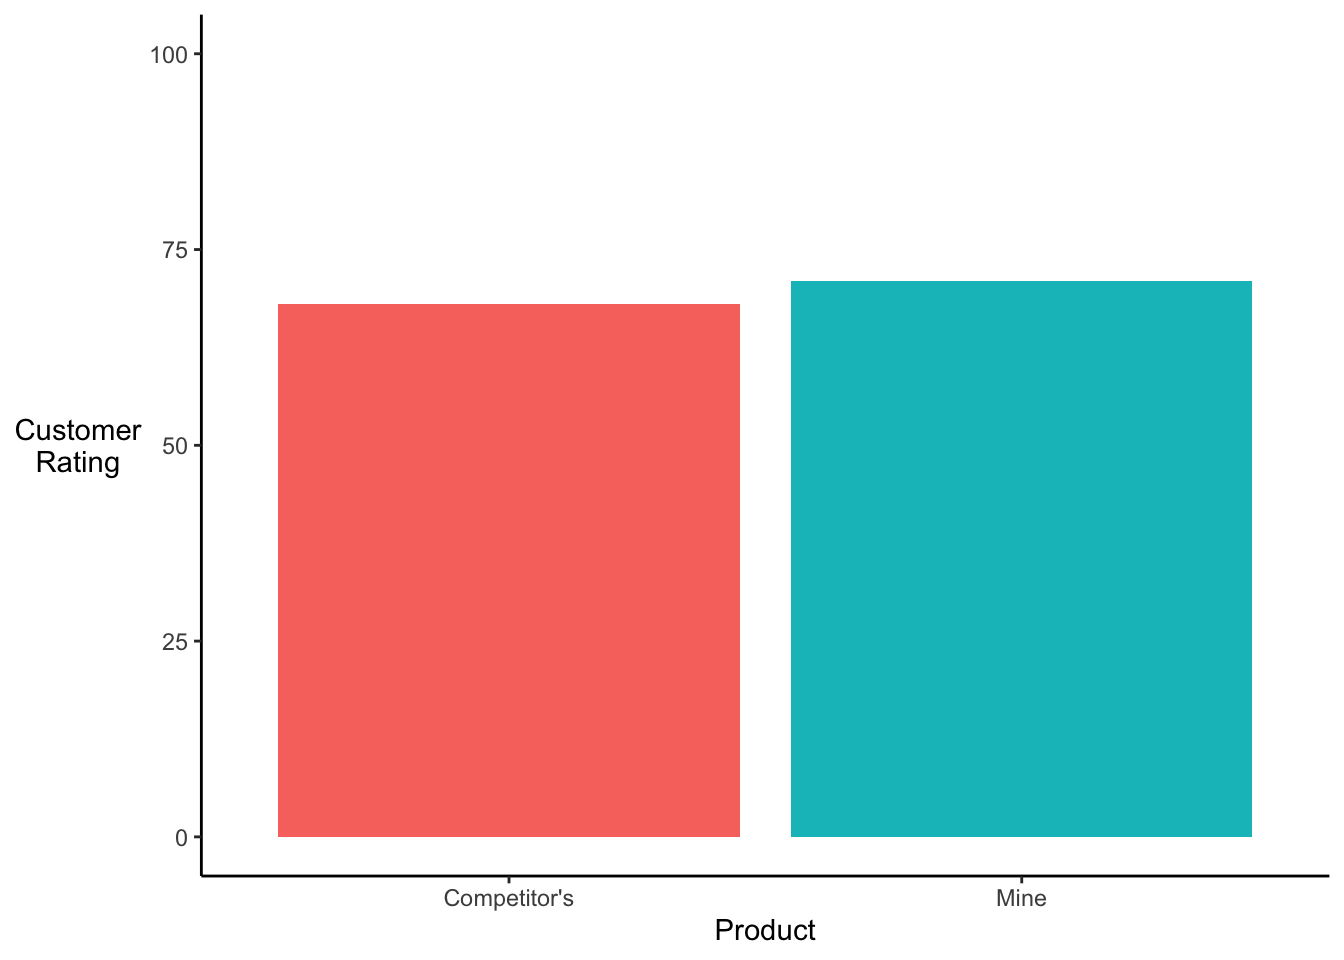
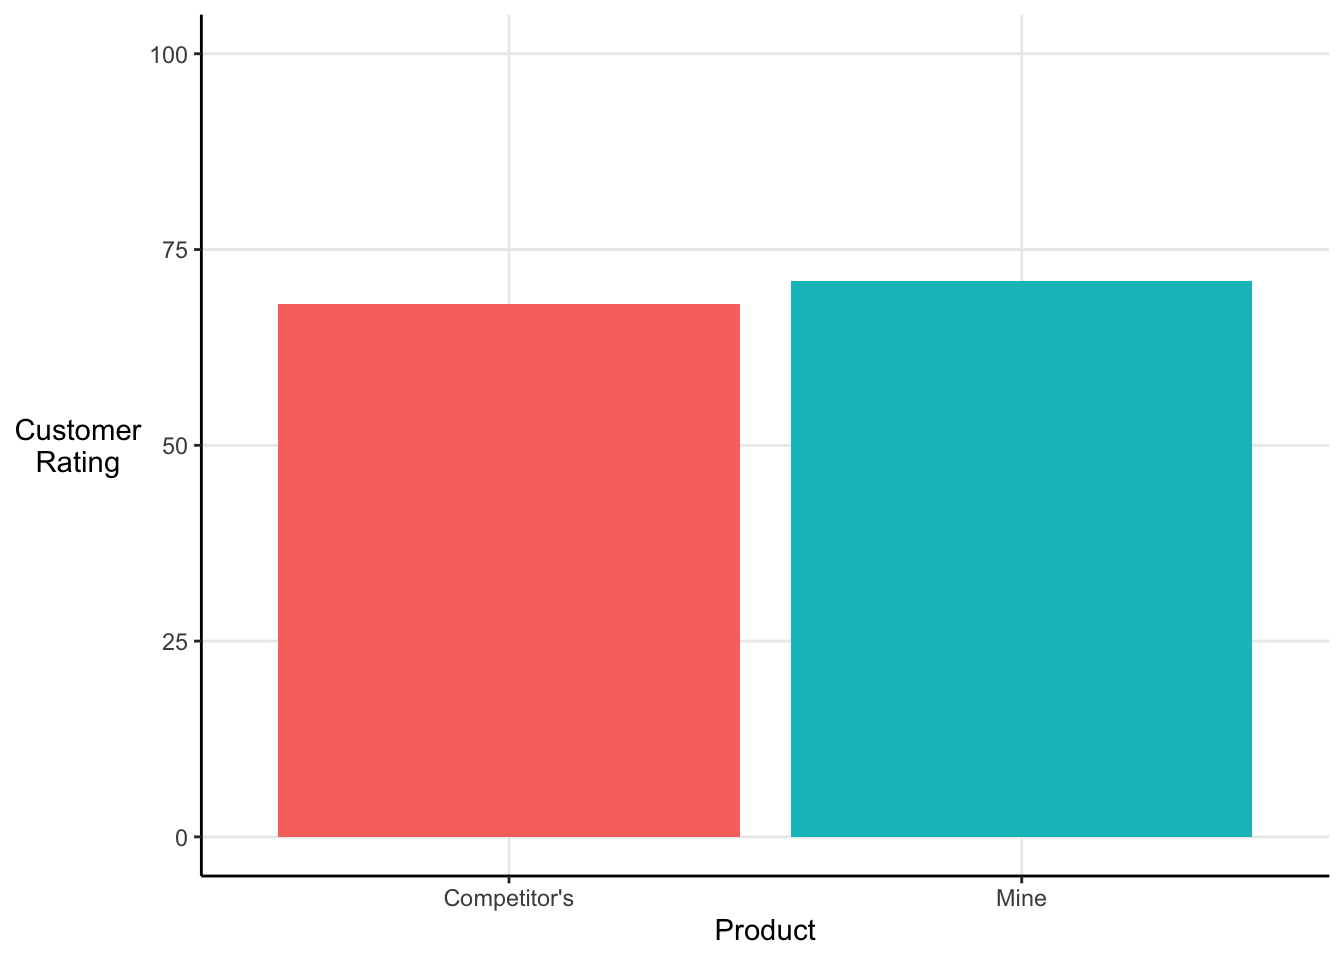
Changed graph template

diff --git a/public/summaries/lies_and_stats_levitin_2016/index.html b/public/summaries/lies_and_stats_levitin_2016/index.html
@@ -189,7 +189,8 @@ ggplot(product_ratings, aes(x = Product, y = mean_rating, fill = Product)) +
   scale_fill_discrete(guide = &quot;none&quot;) +
   scale_y_continuous(&quot;Customer\nRating&quot;, limits = c(0, 100)) +
   theme_classic() +
-  theme(axis.title.y = element_text(angle = 0, vjust = 0.5))</code></pre>
+  theme(axis.title.y = element_text(angle = 0, vjust = 0.5),
+        panel.grid.major = element_line())</code></pre>
 <p><img src="/summaries/lies_and_stats_Levitin_2016_files/figure-html/full%20range%20bar%20chart-1.png" width="672" style="display: block; margin: auto;" /></p>
 </div>
 <div id="discontinuous-axes" class="section level2">
@@ -202,7 +203,8 @@ ggplot(product_ratings, aes(x = Product, y = mean_rating, fill = Product)) +
   geom_line(group = 1) +
   scale_y_continuous(&quot;Burglary\nCount&quot;) +
   theme_classic() +
-  theme(axis.title.y = element_text(angle = 0, vjust = 0.5))</code></pre>
+  theme(axis.title.y = element_text(angle = 0, vjust = 0.5),
+        panel.grid.major = element_line())</code></pre>
 <p><img src="/summaries/lies_and_stats_Levitin_2016_files/figure-html/discontinuous%20line%20graph-1.png" width="672" style="display: block; margin: auto;" /></p>
 <p>However, the apparent spike in burglaries is just an artefact of the fact that 5 year’s worth of increases have been squeezed into one notch on the x-axis.</p>
 </div>
@@ -216,7 +218,8 @@ ggplot(product_ratings, aes(x = Product, y = mean_rating, fill = Product)) +
   scale_y_continuous(&quot;Burglary\nCount&quot;) +
   scale_x_continuous(breaks = c(2009, 2011, 2013, 2015, 2017, 2019)) +
   theme_classic() +
-  theme(axis.title.y = element_text(angle = 0, vjust = 0.5))</code></pre>
+  theme(axis.title.y = element_text(angle = 0, vjust = 0.5),
+        panel.grid.major = element_line())</code></pre>
 <p><img src="/summaries/lies_and_stats_Levitin_2016_files/figure-html/normal%20line%20graph-1.png" width="672" style="display: block; margin: auto;" /></p>
 <p>However, we can make the same data look much more extreme by including space on the x-axis for years without any data. This narrows the visual space over which the increase in our data must be plotted meaning the line is steeper. Thus, the same increase over the same timespan looks much more drastic:</p>
 <pre class="r"><code>tibble(Year = c(2009:2019), burglary_count = c(seq(100, 112.5, 1.25))) %&gt;%
@@ -225,7 +228,8 @@ ggplot(product_ratings, aes(x = Product, y = mean_rating, fill = Product)) +
   scale_y_continuous(&quot;Burglary\nCount&quot;) +
   coord_cartesian(xlim = c(2004, 2024)) +
   theme_classic() +
-  theme(axis.title.y = element_text(angle = 0, vjust = 0.5))</code></pre>
+  theme(axis.title.y = element_text(angle = 0, vjust = 0.5),
+        panel.grid.major = element_line())</code></pre>
 <p><img src="/summaries/lies_and_stats_Levitin_2016_files/figure-html/elongated%20line%20graph-1.png" width="672" style="display: block; margin: auto;" /> Include axis space beyond the range of your data to make changes look more extreme.</p>
 </div>
 <div id="duplicate-axes" class="section level2">
@@ -247,7 +251,8 @@ ggplot(product_ratings, aes(x = Product, y = mean_rating, fill = Product)) +
   scale_color_manual(&quot;Procedure\nPurpose&quot;,
                      values = c(&quot;Cancer&quot; = &quot;#FF96A7&quot;, &quot;Abortions&quot; = &quot;red&quot;)) +
   theme_classic() +
-  theme(axis.title.y = element_text(angle = 0, vjust = 0.5))</code></pre>
+  theme(axis.title.y = element_text(angle = 0, vjust = 0.5),
+        panel.grid.major = element_line())</code></pre>
 <p><img src="/summaries/lies_and_stats_Levitin_2016_files/figure-html/planned%20parenthood-1.png" width="672" style="display: block; margin: auto;" /></p>
 <p>There are still problems with this graph (just plotting two time series and looking for a relationship is setting yourself up to overinterpret a <a href="http://www.tylervigen.com/spurious-correlations">spurious correlation</a>) but it’s better than before.</p>
 </div>

diff --git a/content/summaries/lies_and_stats_Levitin_2016.html b/content/summaries/lies_and_stats_Levitin_2016.html
@@ -90,7 +90,8 @@ ggplot(product_ratings, aes(x = Product, y = mean_rating, fill = Product)) +
   scale_fill_discrete(guide = &quot;none&quot;) +
   scale_y_continuous(&quot;Customer\nRating&quot;, limits = c(0, 100)) +
   theme_classic() +
-  theme(axis.title.y = element_text(angle = 0, vjust = 0.5))</code></pre>
+  theme(axis.title.y = element_text(angle = 0, vjust = 0.5),
+        panel.grid.major = element_line())</code></pre>
 <p><img src="/summaries/lies_and_stats_Levitin_2016_files/figure-html/full%20range%20bar%20chart-1.png" width="672" style="display: block; margin: auto;" /></p>
 </div>
 <div id="discontinuous-axes" class="section level2">
@@ -103,7 +104,8 @@ ggplot(product_ratings, aes(x = Product, y = mean_rating, fill = Product)) +
   geom_line(group = 1) +
   scale_y_continuous(&quot;Burglary\nCount&quot;) +
   theme_classic() +
-  theme(axis.title.y = element_text(angle = 0, vjust = 0.5))</code></pre>
+  theme(axis.title.y = element_text(angle = 0, vjust = 0.5),
+        panel.grid.major = element_line())</code></pre>
 <p><img src="/summaries/lies_and_stats_Levitin_2016_files/figure-html/discontinuous%20line%20graph-1.png" width="672" style="display: block; margin: auto;" /></p>
 <p>However, the apparent spike in burglaries is just an artefact of the fact that 5 year’s worth of increases have been squeezed into one notch on the x-axis.</p>
 </div>
@@ -117,7 +119,8 @@ ggplot(product_ratings, aes(x = Product, y = mean_rating, fill = Product)) +
   scale_y_continuous(&quot;Burglary\nCount&quot;) +
   scale_x_continuous(breaks = c(2009, 2011, 2013, 2015, 2017, 2019)) +
   theme_classic() +
-  theme(axis.title.y = element_text(angle = 0, vjust = 0.5))</code></pre>
+  theme(axis.title.y = element_text(angle = 0, vjust = 0.5),
+        panel.grid.major = element_line())</code></pre>
 <p><img src="/summaries/lies_and_stats_Levitin_2016_files/figure-html/normal%20line%20graph-1.png" width="672" style="display: block; margin: auto;" /></p>
 <p>However, we can make the same data look much more extreme by including space on the x-axis for years without any data. This narrows the visual space over which the increase in our data must be plotted meaning the line is steeper. Thus, the same increase over the same timespan looks much more drastic:</p>
 <pre class="r"><code>tibble(Year = c(2009:2019), burglary_count = c(seq(100, 112.5, 1.25))) %&gt;%
@@ -126,7 +129,8 @@ ggplot(product_ratings, aes(x = Product, y = mean_rating, fill = Product)) +
   scale_y_continuous(&quot;Burglary\nCount&quot;) +
   coord_cartesian(xlim = c(2004, 2024)) +
   theme_classic() +
-  theme(axis.title.y = element_text(angle = 0, vjust = 0.5))</code></pre>
+  theme(axis.title.y = element_text(angle = 0, vjust = 0.5),
+        panel.grid.major = element_line())</code></pre>
 <p><img src="/summaries/lies_and_stats_Levitin_2016_files/figure-html/elongated%20line%20graph-1.png" width="672" style="display: block; margin: auto;" /> Include axis space beyond the range of your data to make changes look more extreme.</p>
 </div>
 <div id="duplicate-axes" class="section level2">
@@ -148,7 +152,8 @@ ggplot(product_ratings, aes(x = Product, y = mean_rating, fill = Product)) +
   scale_color_manual(&quot;Procedure\nPurpose&quot;,
                      values = c(&quot;Cancer&quot; = &quot;#FF96A7&quot;, &quot;Abortions&quot; = &quot;red&quot;)) +
   theme_classic() +
-  theme(axis.title.y = element_text(angle = 0, vjust = 0.5))</code></pre>
+  theme(axis.title.y = element_text(angle = 0, vjust = 0.5),
+        panel.grid.major = element_line())</code></pre>
 <p><img src="/summaries/lies_and_stats_Levitin_2016_files/figure-html/planned%20parenthood-1.png" width="672" style="display: block; margin: auto;" /></p>
 <p>There are still problems with this graph (just plotting two time series and looking for a relationship is setting yourself up to overinterpret a <a href="http://www.tylervigen.com/spurious-correlations">spurious correlation</a>) but it’s better than before.</p>
 </div>
